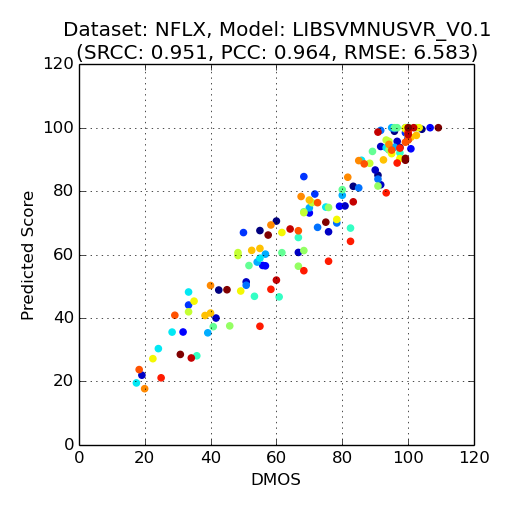
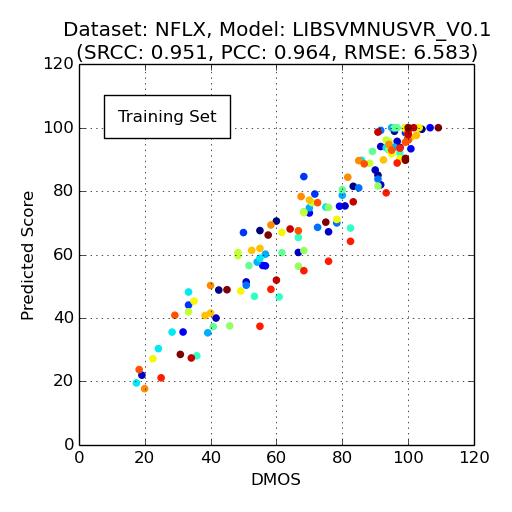
Misc.

Changed region(s): [[0.1875, 0.1562, 0.4688, 0.2812]]

diff --git a/python/run_testing.py b/python/run_testing.py
@@ -64,6 +64,9 @@ def plot_scatter(ax, assets, results, runner_class):
             stats=TrainTestModel.format_stats(stats)
         ))
 
+        bbox = {'facecolor':'white', 'alpha':1, 'pad':20}
+        ax.annotate('Testing Set', xy=(0.1, 0.85), xycoords='axes fraction', bbox=bbox)
+
 def test_on_dataset(test_dataset, quality_runner_class, ax,
                     result_store, model_filepath, parallelize=True):
 

diff --git a/python/run_training.py b/python/run_training.py
@@ -55,6 +55,9 @@ def train_on_dataset(train_dataset, feature_param, model_param,
             stats=TrainTestModel.format_stats(train_stats)
         ))
 
+        bbox = {'facecolor':'white', 'alpha':1, 'pad':20}
+        ax.annotate('Training Set', xy=(0.1, 0.85), xycoords='axes fraction', bbox=bbox)
+
     # save model
     model.to_file(output_model_filepath)
 

diff --git a/README.md b/README.md
@@ -95,6 +95,7 @@ For example:
 
 ```
 yuv420p 576 324 resource/yuv/src01_hrc00_576x324.yuv resource/yuv/src01_hrc01_576x324.yuv
+yuv420p 576 324 resource/yuv/src01_hrc00_576x324.yuv resource/yuv/src01_hrc00_576x324.yuv
 ```
 
 After that, run:
